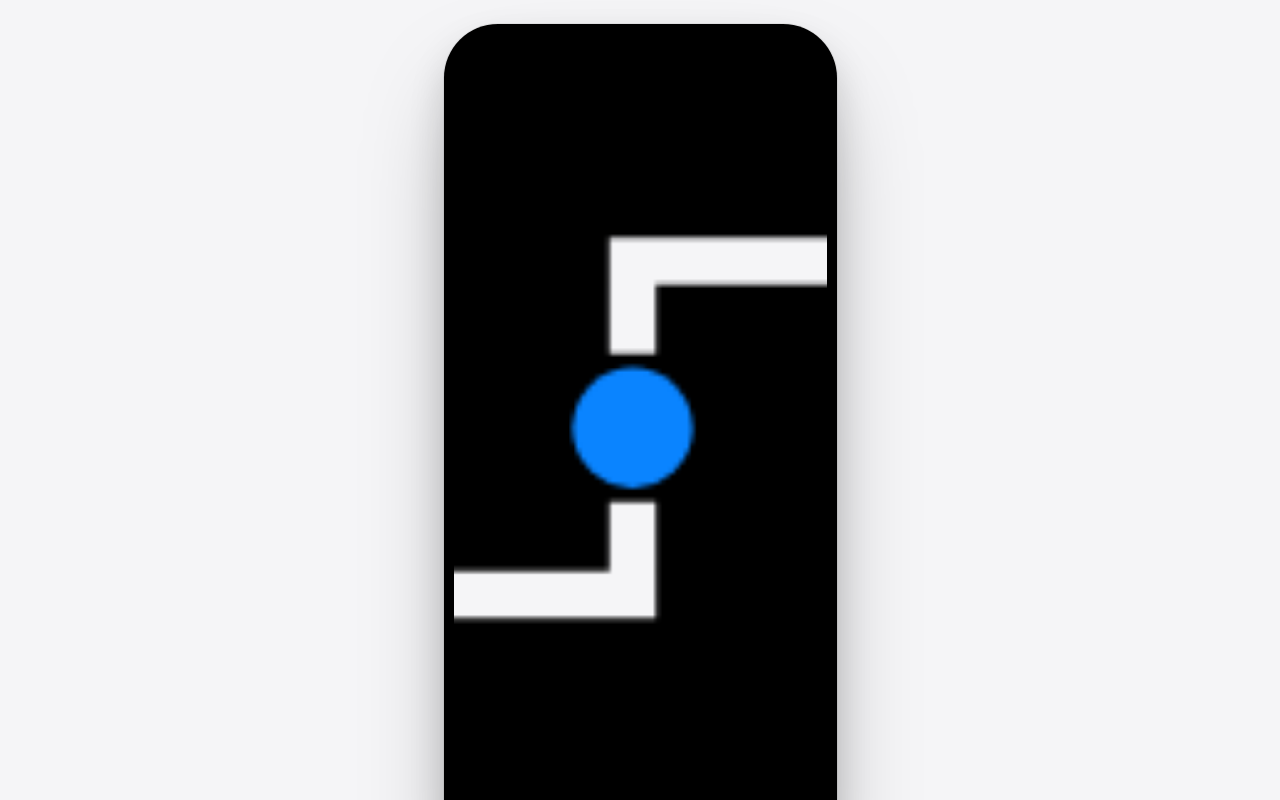
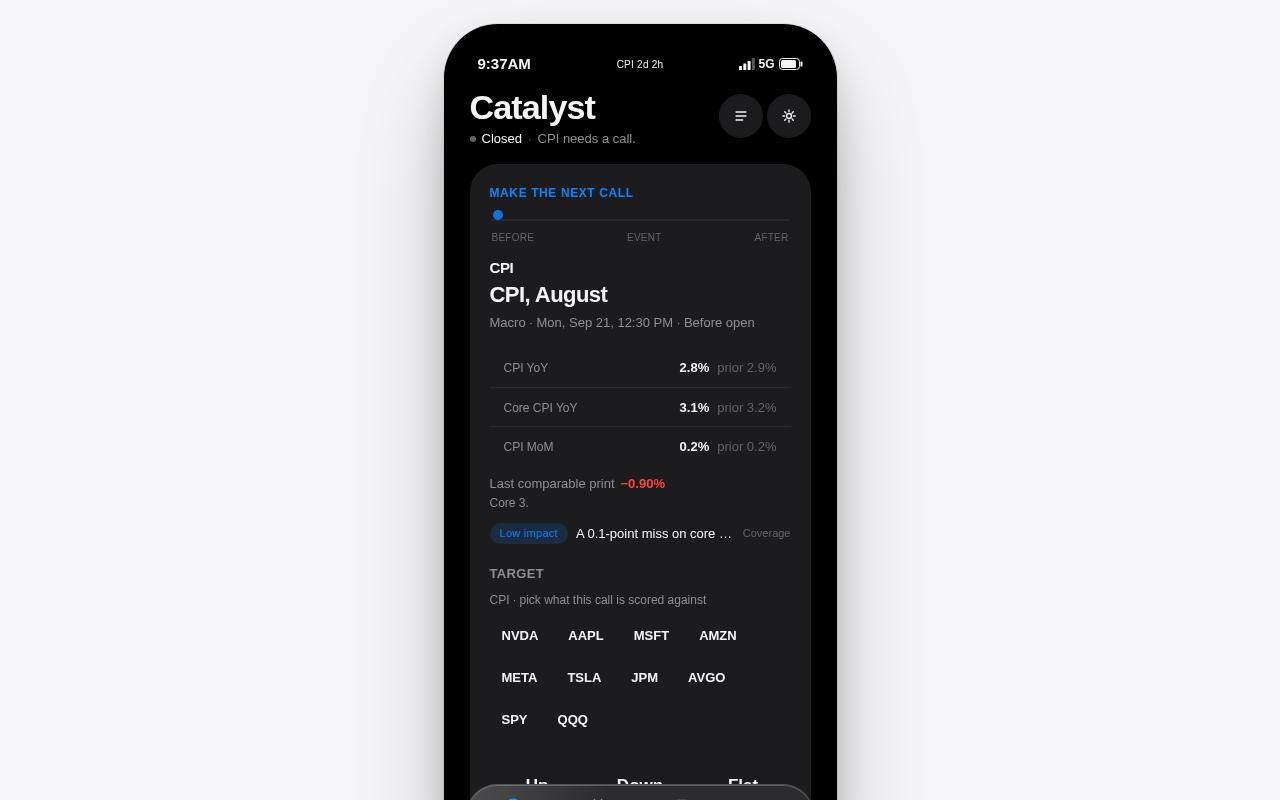
c67 wip §A9 — observed-move only on resolved names, wrong-if copy, fixture source | next: none

Changed region(s): [[0.3438, 0.0625, 0.6562, 1.0], [0.375, 0.0625, 0.4062, 0.0938]]

diff --git a/src/components/catalyst/review.tsx b/src/components/catalyst/review.tsx
@@ -360,9 +360,9 @@ export function ReviewScreen() {
                     ) : null}
                     {e.invalidation ? (
                       <p className="mt-2 text-[13px] leading-snug text-[var(--fg-muted)]">
-                        Wrong if: {e.invalidation}
+                        You said: “{e.invalidation}”
                         <span className="mt-0.5 block text-[12px] text-[var(--fg-faint)]">
-                          {e.actualFigure ?? "Manual review needed"} · Invalidation: manual review needed
+                          Actual: {e.actualFigure ?? "Figures not in the structured print."} · Manual review needed
                         </span>
                       </p>
                     ) : null}

diff --git a/src/lib/catalyst/simulation.ts b/src/lib/catalyst/simulation.ts
@@ -158,7 +158,7 @@ export function buildSimulationSnapshot(now = Date.now()): { snapshot: AppSnapsh
         actualMovePct: Number(move.toFixed(2)),
         actualMoveDate: new Date(now - (daysAgo - 1) * 86400000).toISOString(),
         actualFigure: fired
-          ? "You wrote: margin guide below 73%. It came in at 71.4%. Invalidation fired."
+          ? "You wrote: margin guide below 73%. It came in at 71.4%. Manual review needed."
           : "You wrote: a clean miss on the guide. Guide held. Manual review needed.",
       });
     }

diff --git a/src/lib/catalyst/selectors.ts b/src/lib/catalyst/selectors.ts
@@ -143,6 +143,7 @@ export function observedMoveForHeadline(s: StoreSlice, h: Headline): number | nu
   const related = s.events.filter(
     (e) => (h.tickerId && e.tickerId === h.tickerId) || (h.macroId && e.macroId === h.macroId),
   );
+  if (related.some((e) => new Date(e.startsAt).getTime() > s.now)) return null;
   for (const e of related) {
     const note = entryFor(s, e.id);
     if (note?.actualMovePct != null) return note.actualMovePct;

diff --git a/src/lib/catalyst/fixtures.ts b/src/lib/catalyst/fixtures.ts
@@ -650,7 +650,7 @@ export function buildDemoSnapshot(now = Date.now()): AppSnapshot {
       id: "h13",
       macroId: "cpi",
       title: "A 0.1-point miss on core would reprice two 2026 cuts",
-      source: "Goldman desk note",
+      source: "Goldman",
       publishedAt: at(now, -2),
     },
     {

diff --git a/PROGRESS.md b/PROGRESS.md
@@ -49,3 +49,4 @@ If this session is interrupted, say: **“session got interrupted, continue from
 - 2026-09-19: `3516ce1` trading calendar, lock revisions, DEFERRED.md.
 - 2026-09-19: A0 — ported c67.test.ts to vitest (25 passed); pre-event re-lock + final scored-version tests.
 - 2026-09-19: A1–A9 four tabs Catalyst/Calendar/Tape/Record, launch table, calendar dots+heat, tape vol+violet, A9 43 tests. | next: browser QA.
+- 2026-09-19: QA pass. Observed-move only after the name has no upcoming event; wrong-if copy not auto-judged on Record. | next: none.
